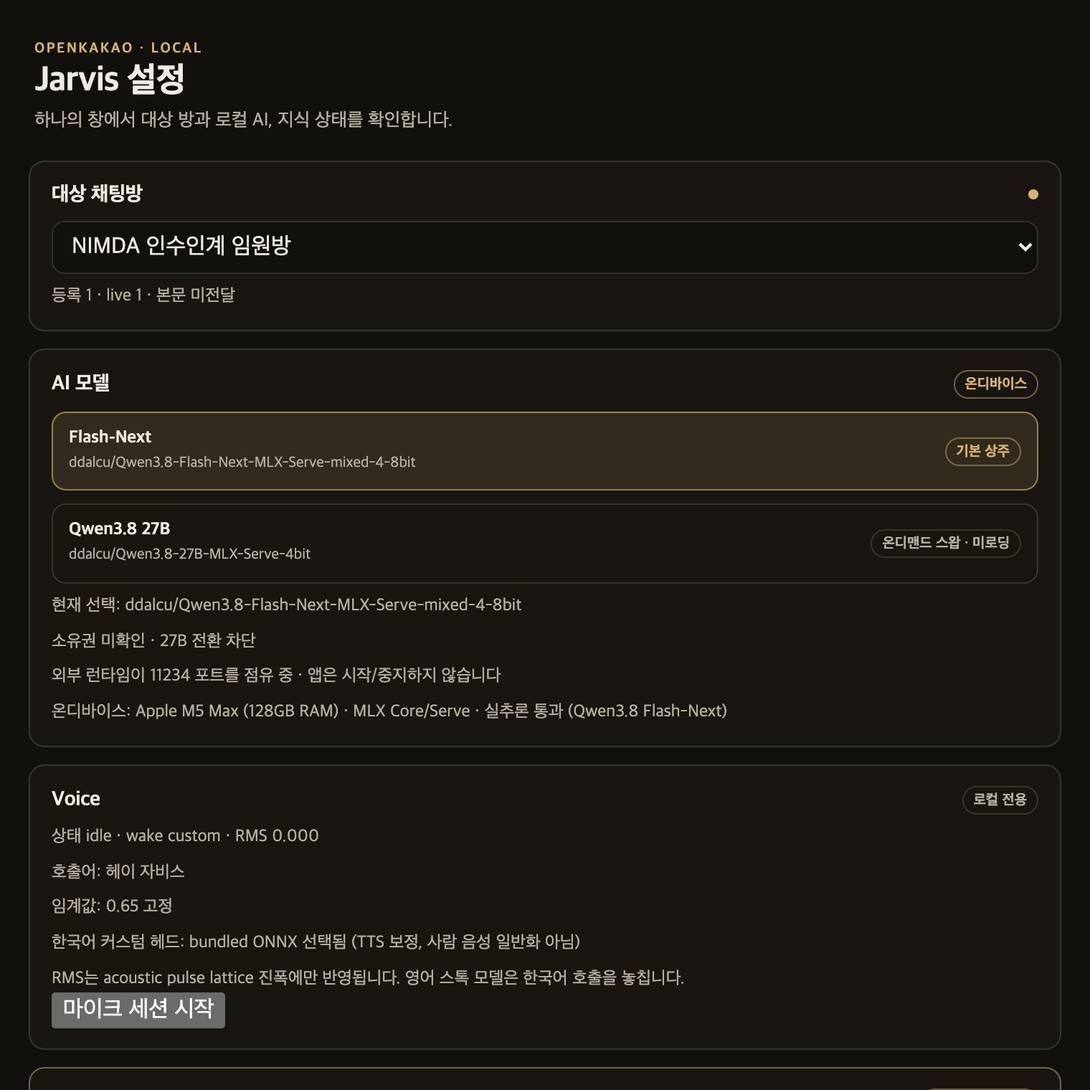
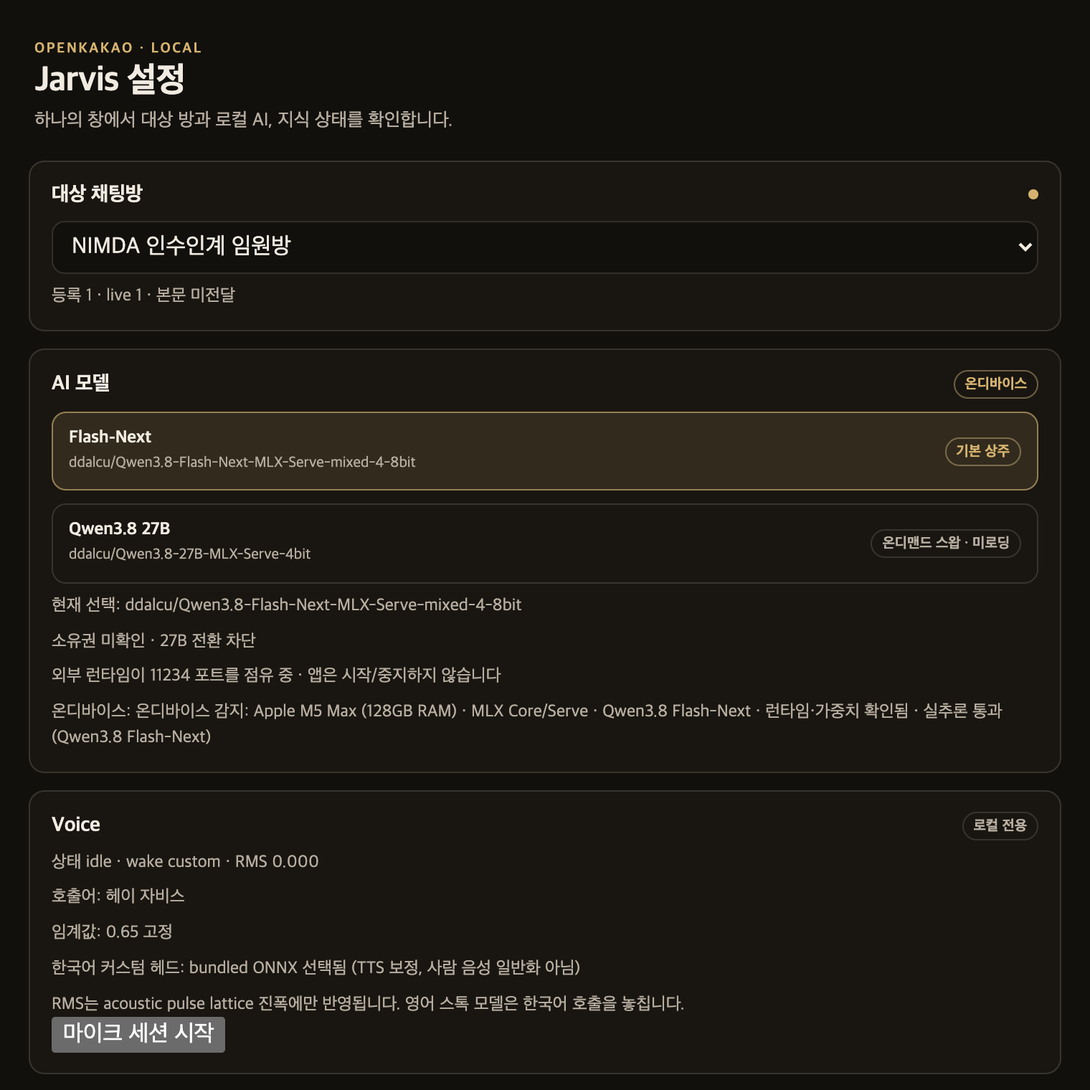
fix(jarvis): keep the rendered settings window free of banned UI tokens
The markup contract and the browser render check both pin what the bundle
draws, but the on-device line in the settings window is not markup: the Tauri
bridge injects it as status_label, and neither check ever read that value from
the product.

Binding the installed app with Computer Use exposed the gap. Opening the
menubar panel with a synthesized click and then clicking the gear showed the
AI model card rendering:

  온디바이스: 온디바이스 감지: Apple M5 Max (128GB RAM) · MLX Core/Serve ·
  Qwen3.8 Flash-Next · 설정 검증 통과 · 실추론 통과 (Qwen3.8 Flash-Next)

검증 is a token the desktop contract bans from the UI. It came from
scripts/auto_reply_ondevice.py and reached the window through status_label, so
it slipped past the markup scan and past a render stub whose status_label had
been written by hand.

Split the status/detail text into the pure ondevice_status_strings(...) and
relabel 설정 검증 통과 / 설정 미확인 as 런타임·가중치 확인됨 / 런타임 미확인.
The exception diagnostic 온디바이스 검증 실패 became 온디바이스 구성 확인 실패.
The function does no filesystem, network, or clock work, so the rendered
strings can be checked directly.

Add TestOnDeviceRenderedTextGuard (5 tests) to tests/test_auto_reply_ondevice.py.
It reads the banned tokens from desktop/src/__tests__/ui-removal-contract.test.ts
rather than copying them, proves the detector is not vacuous first
("일괄 검증 · 권한" -> ["검증", "권한", "일괄"]), covers verified/unverified times
probe present/absent, and checks ondevice_summary_dict actually uses the pure
function.
[…]

Changed region(s): [[0.0309, 0.6493, 0.9586, 1.0], [0.2164, 0.7421, 0.2783, 0.8039]]

diff --git a/tests/test_auto_reply_ondevice.py b/tests/test_auto_reply_ondevice.py
@@ -3,6 +3,7 @@
 from __future__ import annotations
 
 import json
+import re
 import subprocess
 import sys
 import threading
@@ -36,6 +37,8 @@ from scripts.auto_reply_ondevice import (  # noqa: E402
     detect_mlx_gateway_models,
     download_command,
     generate_command,
+    ONDEVICE_RUNTIME_VERIFIED_LABEL,
+    ondevice_status_strings,
     ondevice_summary_dict,
     probe_ondevice_generation,
     read_last_probe,
@@ -1142,3 +1145,103 @@ class TestProbe(unittest.TestCase):
 
 if __name__ == "__main__":
     unittest.main()
+
+UI_CONTRACT_PATH = ROOT / "desktop" / "src" / "__tests__" / "ui-removal-contract.test.ts"
+
+
+def _removed_ui_tokens() -> list[str]:
+    """The banned-token list the desktop markup contract enforces."""
+    source = UI_CONTRACT_PATH.read_text(encoding="utf-8")
+    match = re.search(r"const REMOVED_TOKENS = \[(.*?)\];", source, re.S)
+    if match is None:
+        raise AssertionError("ui-removal-contract.test.ts no longer exposes REMOVED_TOKENS")
+    return re.findall(r'"([^"]+)"', match.group(1))
+
+
+class TestOnDeviceRenderedTextGuard(unittest.TestCase):
+    """The settings window renders this text, so it must respect the UI contract.
+
+    desktop/src/ui.ts is token-clean, but the on-device status line is built
+    here and injected through the Tauri bridge's status_label, which the markup
+    contract cannot see. The installed settings window surfaced the leak.
+    """
+
+    PROBE = {
+        "ok": True,
+        "engine": "mlx-serve-gateway",
+        "model": FLASH_NEXT_MODEL_ID,
+        "latency_ms": 15617,
+        "preview": "OK",
+    }
+
+    def _offending(self, text: str) -> list[str]:
+        folded = text.lower()
+        return [token for token in _removed_ui_tokens() if token.lower() in folded]
+
+    def _bits(self, verified: bool, last_probe: dict | None):
+        return ondevice_status_strings(
+            chip="Apple M5 Max",
+            memory_gb=128.0,
+            reason="MLX Serve/gateway 확인",
+            recommended_model=FLASH_NEXT_MODEL_ID,
+            verified=verified,
+            last_probe=last_probe,
+        )
+
+    def test_offender_detector_is_not_vacuous(self):
+        self.assertEqual(self._offending("일괄 검증 · 권한"), ["검증", "권한", "일괄"])
+        self.assertEqual(self._offending("런타임·가중치 확인됨"), [])
+
+    def test_contract_lists_the_tokens_this_module_must_avoid(self):
+        tokens = _removed_ui_tokens()
+        self.assertIn("검증", tokens)
+        self.assertIn("점검", tokens)
+        self.assertGreaterEqual(len(tokens), 8)
+
+    def test_status_strings_carry_no_banned_ui_token(self):
+        cases = [
+            ("verified with probe", True, self.PROBE),
+            ("verified without probe", True, None),
+            ("unverified without probe", False, None),
+            ("unverified with failed probe", False, dict(self.PROBE, ok=False, model="")),
+        ]
+        for name, verified, last_probe in cases:
+            with self.subTest(case=name):
+                status_bits, detail_bits = self._bits(verified, last_probe)
+                self.assertTrue(status_bits)
+                self.assertTrue(detail_bits)
+                self.assertEqual(self._offending(" · ".join(detail_bits + status_bits)), [])
+
+    def test_status_shape_matches_what_the_card_renders(self):
+        status_bits, _ = self._bits(True, self.PROBE)
+        self.assertEqual(status_bits[0], "온디바이스 감지: Apple M5 Max (128GB RAM)")
+        self.assertEqual(status_bits[1], "MLX Core/Serve")
+        self.assertEqual(status_bits[2], "Qwen3.8 Flash-Next")
+        self.assertEqual(status_bits[3], ONDEVICE_RUNTIME_VERIFIED_LABEL)
+        self.assertEqual(status_bits[4], "실추론 통과 (Qwen3.8 Flash-Next)")
+
+        without_probe, _ = self._bits(False, None)
+        self.assertEqual(without_probe[-1], "런타임 미확인")
+        self.assertEqual(len(without_probe), 4)
+
+    def test_summary_dict_uses_the_pure_formatter(self):
+        rec = _gateway_rec()
+        with TemporaryDirectory() as temp_dir:
+            with patch("scripts.auto_reply_ondevice.detect_hardware", return_value=_hw("Apple M5 Max", 128.0)), patch(
+                "scripts.auto_reply_ondevice.recommend_ondevice_setup", return_value=rec
+            ), patch(
+                "scripts.auto_reply_ondevice.verify_ondevice_setup",
+                return_value={"ok": True, "engine": "mlx-serve", "model": rec.recommended_model, "checks": [], "errors": []},
+            ):
+                summary = ondevice_summary_dict(Path(temp_dir))
+        status_bits, detail_bits = ondevice_status_strings(
+            chip="Apple M5 Max",
+            memory_gb=128.0,
+            reason=rec.reason,
+            recommended_model=rec.recommended_model,
+            verified=True,
+            last_probe=None,
+        )
+        self.assertEqual(summary["status_label"], " · ".join(status_bits))
+        self.assertEqual(summary["status_detail"], " · ".join(bit for bit in detail_bits if bit))
+        self.assertEqual(self._offending(summary["status_label"] + summary["status_detail"]), [])

diff --git a/scripts/auto_reply_ondevice.py b/scripts/auto_reply_ondevice.py
@@ -1269,7 +1269,7 @@ def verify_ondevice_setup(rec: EngineRecommendation | None = None) -> dict[str, 
         else:
             record("mlx_runtime", False, "Apple Silicon MLX Core/Serve 구성이 아닙니다")
     except Exception as exc:
-        errors.append(f"온디바이스 검증 실패: {type(exc).__name__}")
+        errors.append(f"온디바이스 구성 확인 실패: {type(exc).__name__}")
 
     return {
         "ok": bool(checks) and all(check["ok"] for check in checks) and not errors,
@@ -1554,26 +1554,60 @@ def _display_model(model: str) -> str:
     return Path(model).name if model else "모델 미확인"
 
 
+ONDEVICE_RUNTIME_VERIFIED_LABEL = "런타임·가중치 확인됨"
+ONDEVICE_RUNTIME_UNVERIFIED_LABEL = "런타임 미확인"
+ONDEVICE_PROBE_OK_LABEL = "실추론 통과"
+ONDEVICE_PROBE_FAIL_LABEL = "실추론 실패"
+
+
+def ondevice_status_strings(
+    *,
+    chip: str,
+    memory_gb: float,
+    reason: str,
+    recommended_model: str,
+    verified: bool,
+    last_probe: dict[str, Any] | None,
+) -> tuple[list[str], list[str]]:
+    """Build the settings window's on-device status and detail text.
+
+    Pure: no filesystem, network, or clock access, so the rendered-UI token
+    guard in tests can exercise the exact strings the product ships. The
+    labels deliberately avoid the tokens the desktop UI contract bans.
+    """
+    verify_label = (
+        ONDEVICE_RUNTIME_VERIFIED_LABEL if verified else ONDEVICE_RUNTIME_UNVERIFIED_LABEL
+    )
+    status_bits = [
+        f"온디바이스 감지: {chip} ({int(memory_gb)}GB RAM)",
+        "MLX Core/Serve",
+        _display_model(recommended_model),
+        verify_label,
+    ]
+    detail_bits = [reason, recommended_model]
+    if last_probe:
+        probe_label = ONDEVICE_PROBE_OK_LABEL if last_probe.get("ok") else ONDEVICE_PROBE_FAIL_LABEL
+        status_bits.append(f"{probe_label} ({_display_model(str(last_probe.get('model') or ''))})")
+        detail_bits.append(
+            f"최근 실추론: {last_probe.get('engine') or '-'} · {last_probe.get('model') or '-'} · "
+            f"{last_probe.get('latency_ms') or 0}ms · {probe_label}"
+        )
+    return status_bits, detail_bits
+
+
 def ondevice_summary_dict(state_root: Path | None = None) -> dict[str, Any]:
     hw = detect_hardware()
     rec = recommend_ondevice_setup(hw)
     verification = verify_ondevice_setup(rec)
     last_probe = read_last_probe(state_root)
-    verify_status = "설정 검증 통과" if verification.get("ok") else "설정 미확인"
-    status_bits = [
-        f"온디바이스 감지: {hw.chip} ({int(hw.memory_gb)}GB RAM)",
-        "MLX Core/Serve",
-        _display_model(rec.recommended_model),
-        verify_status,
-    ]
-    detail_bits = [rec.reason, rec.recommended_model]
-    if last_probe:
-        probe_status = "실추론 통과" if last_probe.get("ok") else "실추론 실패"
-        status_bits.append(f"{probe_status} ({_display_model(str(last_probe.get('model') or ''))})")
-        detail_bits.append(
-            f"최근 실추론: {last_probe.get('engine') or '-'} · {last_probe.get('model') or '-'} · "
-            f"{last_probe.get('latency_ms') or 0}ms · {probe_status}"
-        )
+    status_bits, detail_bits = ondevice_status_strings(
+        chip=hw.chip,
+        memory_gb=hw.memory_gb,
+        reason=rec.reason,
+        recommended_model=rec.recommended_model,
+        verified=bool(verification.get("ok")),
+        last_probe=last_probe,
+    )
     return {
         "hardware": asdict(hw),
         "recommendation": asdict(rec),

diff --git a/scripts/jarvis_desktop_render_check.py b/scripts/jarvis_desktop_render_check.py
@@ -45,6 +45,32 @@ DEFAULT_CONTRACT = ROOT / "desktop" / "src" / "__tests__" / "ui-removal-contract
 DEFAULT_OUT = ROOT / "docs" / "architecture"
 DEFAULT_PORT = 8712
 
+# The on-device status line is produced by the product, not written here. The
+# TypeScript contract cannot see text the Tauri bridge injects as status_label,
+# and the installed settings window once rendered a banned token exactly that
+# way, so the stub feeds the real formatter and the scan below sees its output.
+sys.path.insert(0, str(ROOT / "scripts"))
+from auto_reply_ondevice import ondevice_status_strings  # noqa: E402
+
+STUB_ONDEVICE_MODEL = "mlx/ddalcu/Qwen3.8-Flash-Next-MLX-Serve-mixed-4-8bit"
+STUB_ONDEVICE_PROBE = {
+    "ok": True,
+    "engine": "mlx-serve-gateway",
+    "model": STUB_ONDEVICE_MODEL,
+    "latency_ms": 15617,
+    "preview": "OK",
+}
+STUB_ONDEVICE_STATUS_BITS, STUB_ONDEVICE_DETAIL_BITS = ondevice_status_strings(
+    chip="Apple M5 Max",
+    memory_gb=128.0,
+    reason="Apple Silicon MLX Core/Serve 경로를 사용합니다",
+    recommended_model=STUB_ONDEVICE_MODEL,
+    verified=True,
+    last_probe=STUB_ONDEVICE_PROBE,
+)
+STUB_ONDEVICE_STATUS_LABEL = " · ".join(STUB_ONDEVICE_STATUS_BITS)
+STUB_ONDEVICE_STATUS_DETAIL = " · ".join(bit for bit in STUB_ONDEVICE_DETAIL_BITS if bit)
+
 PANEL_SIZE = (276, 260)
 SETTINGS_SIZE = (760, 760)
 PANEL_LABEL = "\uc124\uc815 \uc5f4\uae30"
@@ -137,7 +163,8 @@ IDLE_SNAPSHOT: dict[str, Any] = {
         "hardware": {"chip": "Apple M5 Max", "cores": 18, "memory_gb": 128.0, "is_apple_silicon": True},
         "recommendation": {"primary_engine": "MLX Core/Serve", "recommended_model": "Qwen3.8 Flash-Next", "recommended_quant": "4-8bit"},
         "verification": {"ok": True},
-        "status_label": "Apple M5 Max (128GB RAM) \u00b7 MLX Core/Serve \u00b7 \uc2e4\ucd94\ub860 \ud1b5\uacfc (Qwen3.8 Flash-Next)",
+        "status_label": STUB_ONDEVICE_STATUS_LABEL,
+        "status_detail": STUB_ONDEVICE_STATUS_DETAIL,
     },
     "pipeline": {"active": False, "stage": "none", "stageIndex": 0, "stageTotal": 8, "outcome": "none"},
     "terminal_counts": {"sent": 12, "skipped": 1, "delivery_unknown": 0, "burst_superseded": 1},
@@ -512,6 +539,11 @@ def assertions(receipt: dict[str, Any], contract: dict[str, Any]) -> list[dict[s
     checks.append(check("settings.no_iframe", settings["iframes"] == 0, settings["iframes"]))
     checks.append(check("settings.knowledge_canvas_present", any(item["id"] == "knowledge-graph-canvas" for item in settings["canvases"]), settings["canvases"]))
     checks.append(check("settings.no_removed_control_tokens", scan_banned_tokens([settings["text"], settings["html"]], contract["banned_tokens"]) == [], scan_banned_tokens([settings["text"], settings["html"]], contract["banned_tokens"])))
+    checks.append(check(
+        "settings.ondevice_status_is_product_formatted",
+        STUB_ONDEVICE_STATUS_LABEL in settings["text"],
+        {"product_label": STUB_ONDEVICE_STATUS_LABEL[:160]},
+    ))
 
     checks.append(check("knowledge.hologram_renders_frames", (knowledge.get("render_count_after_focus") or 0) > 0, knowledge.get("render_count_after_focus")))
     checks.append(check("knowledge.drilldown_focuses_a_node", bool(knowledge.get("focused")), {"probes": knowledge.get("probes"), "title": knowledge.get("focus_title")}))

diff --git a/tests/test_jarvis_desktop_render_check.py b/tests/test_jarvis_desktop_render_check.py
@@ -190,3 +190,47 @@ class BridgeStub(unittest.TestCase):
 if __name__ == "__main__":
     unittest.main()
 
+class ProductSuppliedStatusText(unittest.TestCase):
+    """The stub must render the product's own on-device status text.
+
+    The markup contract cannot see text the Tauri bridge injects as
+    status_label, so the browser scan only has teeth if the stub carries what
+    the product actually builds.
+    """
+
+    REASON = "Apple Silicon MLX Core/Serve 경로를 사용합니다"
+
+    def bits(self):
+        return check.ondevice_status_strings(
+            chip="Apple M5 Max",
+            memory_gb=128.0,
+            reason=self.REASON,
+            recommended_model=check.STUB_ONDEVICE_MODEL,
+            verified=True,
+            last_probe=check.STUB_ONDEVICE_PROBE,
+        )
+
+    def test_stub_label_is_the_factory_output(self) -> None:
+        status_bits, detail_bits = self.bits()
+        self.assertEqual(check.STUB_ONDEVICE_STATUS_LABEL, " · ".join(status_bits))
+        self.assertEqual(
+            check.STUB_ONDEVICE_STATUS_DETAIL,
+            " · ".join(bit for bit in detail_bits if bit),
+        )
+
+    def test_stub_status_text_avoids_the_banned_tokens(self) -> None:
+        contract = check.parse_contract(CONTRACT_SOURCE)
+        haystacks = [check.STUB_ONDEVICE_STATUS_LABEL, check.STUB_ONDEVICE_STATUS_DETAIL]
+        self.assertEqual(check.scan_banned_tokens(haystacks, contract["banned_tokens"]), [])
+
+    def test_stub_snapshot_uses_the_factory_output(self) -> None:
+        ondevice = check.IDLE_SNAPSHOT["onDevice"]
+        self.assertEqual(ondevice["status_label"], check.STUB_ONDEVICE_STATUS_LABEL)
+        self.assertEqual(ondevice["status_detail"], check.STUB_ONDEVICE_STATUS_DETAIL)
+        self.assertEqual(ondevice["verification"], {"ok": True})
+
+    def test_busy_snapshot_carries_the_same_status_text(self) -> None:
+        self.assertEqual(
+            check.BUSY_SNAPSHOT["onDevice"]["status_label"],
+            check.STUB_ONDEVICE_STATUS_LABEL,
+        )

diff --git a/README.md b/README.md
@@ -134,6 +134,7 @@ The diagrams are architectural references, not a live generation trace. On-devic
 - 설치된 Tauri 빌드의 live UI를 직접 확인했다. 2026-09-21 KST에 설치본 `/Applications/OpenKakao Jarvis.app`(패널 276x260)의 메뉴바 패널과 설정 창(760x760)에서 Computer Use 스크린샷과 AX 트리를 받아 [jarvis-live-panel.png](docs/architecture/jarvis-live-panel.png)와 [jarvis-live-settings.png](docs/architecture/jarvis-live-settings.png)로 남겼다. 패널 창의 조작 요소는 톱니바퀴 버튼 1개뿐이고, 설정 창은 대상 채팅방·AI 모델·Voice·카카오 DB 동기화·색인·DREAM-RSI·Knowledge·GeekNews 슬롯·History만 담으며 대량 검증·기능 점검·권한 관리 화면은 없다. 같은 측정에서 종전 `-10005 timeoutReached` 원인도 격리했다: 패널은 `label() == "jarvis"`가 포커스를 잃으면 hide되므로(`desktop/src-tauri/src/main.rs`) 평소 창이 0개이고, `cua.getApp`은 창이 있으면 69 ms(경로)·43 ms(표시 이름)에 붙지만 창이 0개면 5.05초 뒤 실패한다. `LSUIElement`를 원인으로 적은 종전 설명은 이 실측으로 대체한다. 이 증거는 UI 렌더와 창 생명주기에 대한 것이며 live model generation이나 live KakaoTalk 전송을 입증하지 않는다. 프로브 명령과 AX 트리 전문은 `docs/architecture/unit5-live-proofs.md`의 같은 날짜 절에 있다.
 - 실제 loopback 임베딩 endpoint로 dense ANN 색인과 RRF 하이브리드 검색을 처음 재현했다. 외부 소유 `mlx-serve`가 `127.0.0.1:11234/v1/embeddings`에서 2560차원 벡터를 반환했고, 앱 자체 그래프(50 entities·341 relations)의 read-only 복제본에서 `dense_vectors` 50행·`ann_buckets` 400행이 생성됐으며 네 개 질의가 모두 `search_mode = "rrf"`였다(`candidate_count` 23–40, `entities_count` 12–13). 같은 측정에서 기본 `batch_size=32`가 요청당 4.864초로 `DENSE_EMBEDDING_TIMEOUT_SECONDS=4.0`을 넘겨 기본값 그대로는 dense 색인이 fail-closed로 끝나는 것을 실측했고, 그 불일치는 이후 수정했다(아래 bullet). 명령과 수치는 `docs/architecture/unit5-live-proofs.md`의 같은 날짜 절에 있다.
[1 lines of base64/hex data omitted]
+- 설치본 설정 창에서 마크업 검사가 볼 수 없는 백엔드 문자열 누출을 찾아 고쳤다(2026-09-22 KST). Computer Use로 설치본 pid 84125의 메뉴바 패널을 합성 클릭으로 열고(패널은 한가할 때 약 5–8초 뒤에 뜨고 포커스를 잃으면 다시 숨는다) gear(요소 5)를 실제로 클릭해 설정 창(760x760)을 띄운 뒤 AX 트리를 읽었다. 패널 조작 요소는 종전대로 톱니바퀴 1개(`button 설정 열기`)였고 설정 창은 7개 `h2` 와 `GeekNews 슬롯` 컨테이너만 담았지만, AI 모델 카드가 `온디바이스: … · 설정 검증 통과 · 실추론 통과 (Qwen3.8 Flash-Next)` 를 렌더했다. `검증` 은 데스크톱 계약이 UI에서 금지한 토큰인데 그 문자열은 `scripts/auto_reply_ondevice.py` 가 만들어 브리지의 `status_label` 로 들어오므로 마크업 스캔과 손으로 적어 둔 render stub 을 모두 통과했다. 상태 문자열을 순수 함수 `ondevice_status_strings(...)` 로 분리해 라벨을 `런타임·가중치 확인됨` / `런타임 미확인` 으로 바꾸고, `tests/test_auto_reply_ondevice.py` 에 금지 토큰 목록을 `ui-removal-contract.test.ts` 에서 읽는 `TestOnDeviceRenderedTextGuard` 5개를 추가했으며, render stub 이 그 함수로 `status_label` 을 만들고 설정 창이 제품 문자열을 실제로 렌더하는지 보는 check 를 넣었다. 종전 라벨을 주입한 실행은 `status fail` 와 `['검증']` 로 떨어졌고 수정 상태는 24/24 pass 다. 설치 번들은 수정 전 그대로여서 이 변경은 다음 재빌드·재설치 때 화면에 반영된다.
 - 로컬 모델 생성 경로를 다시 실측했다. 2026-09-21 KST에 `scripts/verify_local_models.py --timeout 60 --owner --json`로 Flash-Next는 `readiness true · generation true · reason ok`(15,842 ms), 27B는 `model_not_ready`(2 ms)였고 `owner = model_owner_unmanaged`였다. 설정 카드의 `실추론 통과` 문구는 `~/Library/Application Support/openkakao/bujamentor/ondevice-last-probe.json`(2026-09-19T18:47:40+00:00, engine `mlx-serve-gateway`, latency 15,617 ms, preview `OK`)에 영속된 기록을 읽은 것이다. 이 실측은 Flash-Next 텍스트 생성만 확인하며 27B 생성·비전과 실제 카카오톡 전송을 입증하지 않는다.
 - 숨김 상태 렌더 정지를 설치본에서 다시 확인했다. 2026-09-21 KST에 설치본 pid 50870의 메뉴바 패널을 실제 클릭으로 열고 닫으면서 2초 간격 6회 `ps -p 50870 -o %cpu=`를 샘플링했다: 패널 열림(유휴, `count of windows` 1)에서 2.9–3.1, 패널 닫힘(`count of windows` 0)에서 6회 모두 0.0이었다. `ps`의 %cpu는 감쇠 평균이고 프로세스 전체 값이므로 RAF 호출 수 자체를 세는 증거는 아니며, 창 숨김 시 미해결 RAF 취소와 render-count delta 0을 직접 측정한 기존 기록을 대체하지 않는다.
 

diff --git a/docs/architecture/unit5-live-proofs.md b/docs/architecture/unit5-live-proofs.md
@@ -1539,3 +1539,29 @@ receipt:
 - Tauri 브리지는 stub이다. 실제 Rust 브리지가 돌려주는 스냅샷 형식(6키 작업 이벤트 등)은 기존 Rust 테스트가 담당한다.
 - DREAM-RSI·색인·모델 소유권 값은 stub payload이므로 실측이 아니다. `model-swap` 은 이 호스트의 실제 상태(외부 `mlx-serve` 가 11234 점유 → 27B 전환 차단)를 그대로 stub에 옮긴 것이고, 앱이 실제로 전환을 거부하는지는 이 절이 입증하지 않는다.
 - fps는 headless Chromium의 RAF 환경에서 측정한 값이다. 실제 webview의 합성 주기와 같다고 주장하지 않는다.
+
+### 설치본 설정 창이 드러낸 백엔드 문자열 누출 — 2026-09-22 KST (세션 01a0b7f6 계속)
+
+`ui-removal-contract.test.ts` 와 `scripts/jarvis_desktop_render_check.py` 는 마크업과 번들이 그리는 화면을 고정한다. 그런데 설정 창 AI 모델 카드의 온디바이스 한 줄은 마크업이 아니라 **Tauri 브리지가 `status_label` 로 주입하는 문자열** 이고, 두 검사 모두 그 값을 실제 제품에서 읽지 않았다. 이번 턴에 Computer Use로 설치본을 직접 열어 읽으면서 그 구멍이 뚫려 있는 것을 확인했다.
+
+재현과 관측:
+
+- 설치본 pid 84125는 평소 창이 0개다(패널은 `label() == "jarvis"` 가 포커스를 잃으면 hide된다). 트레이 아이템은 AX로 `2917, 3, 36, 24` 였고 `/tmp/jarvis_click 2935 15` 로 합성 HID 클릭을 보냈다. 앱이 한가할 때 패널은 즉시 뜨지 않고 **약 5–8초 뒤**에 뜨며(창 수를 0.25초 간격으로 40회 샘플링해 마지막 샘플에서 1이 됐다), 뜬 뒤에도 포커스를 잃으면 다시 hide된다. 종전 기록의 "클릭 0.1초 뒤 바인딩"은 창이 이미 떠 있던 조건의 값이다.
+- 그 창이 떠 있는 동안 `cua.getApp("/Applications/OpenKakao Jarvis.app")` 는 즉시 붙었다. 패널 AX 트리는 종전과 같다: `0 standard window` → `1 scroll area` → `2 HTML content (tauri://localhost)` → `3 container Jarvis` → `4 image Jarvis core` + `5 button 설정 열기`, 즉 조작 요소는 톱니바퀴 1개다. 스크린샷도 같은 톤이었다: 아이보리 배경, 샴페인 골드 다중 짐벌 링 + 구형 코어, 얇은 시냅스 선과 작은 입자. bloom 후처리·네온·발광 텍스트는 없었다.
+- 같은 세션에서 gear(요소 5)를 실제로 클릭해 설정 창(760x760)을 열었다. AX 트리는 `대상 채팅방 · AI 모델 · Voice · 카카오 DB 동기화 · 색인 · DREAM-RSI · Knowledge · History` 7개 `h2` 와 heading 없는 `GeekNews 슬롯` 컨테이너만 담았고 대량 검증·기능 점검·권한 관리 화면은 없었다.
+- 그런데 AI 모델 카드의 온디바이스 줄은 `온디바이스: 온디바이스 감지: Apple M5 Max (128GB RAM) · MLX Core/Serve · Qwen3.8 Flash-Next · 설정 검증 통과 · 실추론 통과 (Qwen3.8 Flash-Next)` 였다. `검증` 은 데스크톱 계약이 UI에서 금지한 토큰인데, 이 문자열은 `scripts/auto_reply_ondevice.py` 가 만들고 브리지의 `status_label` 로 들어오므로 마크업 스캔에 걸리지 않는다. 렌더 검사의 stub 도 `status_label` 을 손으로 적어 두어(`실추론 통과` 만 포함) 같은 이유로 통과했다.
+- 설정 창은 CUA의 close button(요소 92) 클릭으로 닫았다. 클릭 뒤 관측 호출이 `-10005 timeoutReached` 로 끝난 것은 창이 사라져서이고, 곧이어 AX 창 수 0 · pid 84125 생존을 확인해 이 턴이 찾은 상태로 되돌렸다.
+
+수정은 세 갈래다.
+
+- `scripts/auto_reply_ondevice.py` 의 상태 문자열을 순수 함수 `ondevice_status_strings(...)` 로 분리하고 라벨을 `런타임·가중치 확인됨` / `런타임 미확인` 으로 바꿨다(종전 `설정 검증 통과` / `설정 미확인`). 예외 진단 문구 `온디바이스 검증 실패` 도 `온디바이스 구성 확인 실패` 로 맞췄다. 이 함수는 파일·네트워크·시계에 접근하지 않으므로 렌더되는 문자열을 그대로 검사할 수 있다.
+- `tests/test_auto_reply_ondevice.py` 에 `TestOnDeviceRenderedTextGuard` 5개를 추가했다. 금지 토큰은 `desktop/src/__tests__/ui-removal-contract.test.ts` 의 `REMOVED_TOKENS` 에서 직접 읽고, 검출기가 비지 않음도 먼저 확인한다(`일괄 검증 · 권한` → `["검증","권한","일괄"]`). verified/미확인 × probe 있음/없음 4조합 모두에서 상태·상세 문자열에 금지 토큰이 없고, `ondevice_summary_dict` 가 그 순수 함수를 실제로 쓰는지도 확인한다.
+- `scripts/jarvis_desktop_render_check.py` 의 Tauri stub 은 이제 같은 함수를 호출해 `status_label` / `status_detail` 을 만든다. 새 check `settings.ondevice_status_is_product_formatted` 는 설정 창이 그 제품 문자열을 정말 렌더하는지 보므로, 토큰 스캔이 렌더되지 않은 문자열에 대해 공허하게 통과할 수 없다. `tests/test_jarvis_desktop_render_check.py` 에는 stub 라벨이 그 함수의 출력과 같은지, 금지 토큰이 없는지, busy 스냅샷도 같은 문자열을 쓰는지 확인하는 4개를 추가했다.
+
+검사에 이빨이 있는지는 주입으로 확인했다. stub 라벨을 종전 문자열(`설정 검증 통과` 포함)로 바꾼 별도 실행에서 렌더 검사는 `status fail` 이고 `settings.no_removed_control_tokens` 가 `['검증']` 로 떨어졌다. 같은 리비전의 수정 상태에서는 **24/24 checks pass** 이다. 영수증 [jarvis-desktop-render-check.json](jarvis-desktop-render-check.json) 과 캡처 7장을 이 실행으로 갱신했다.
+
+이 절이 닫지 않는 것:
+
+- 설치는 수정 전 번들 그대로다. pid 84125는 여전히 `설정 검증 통과` 를 렌더하므로, 이 수정은 다음 재빌드·재설치(전환) 때 화면에 반영된다. `docs/architecture/jarvis-live-settings.png` 는 수정 전 설치본을 담은 그대로 둔다.
+- 이 셸에서 `screencapture` 는 신뢰할 수 없다: `-R` 은 15–20초 뒤에야 파일을 쓰고 그동안 화면이 바뀌면 다른 창을 담았으며(실제로 Spark 창을 담아 되돌렸다), `-l <windowID>` 는 25초를 넘겨도 끝나지 않아 스스로 종료해야 했다. 창 ID 조회는 `CGWindowListCopyWindowInfo` 를 쓰는 `/tmp/jarvis_win <pid> [title]` 로 됐다. CUA 스크린샷은 대화에만 남고 파일로 저장할 수 없다(`nodeRepl` 에 파일 API가 없고 `nodeRepl.rpc` 는 service 식별자를 요구한다).
+- `macos/AutoReplyMenu/main.swift` 에는 같은 부류의 문자열이 아직 7개 있다(`점검 중` 5개, `검증 통과` 계열 2개). 그 앱은 아직 CI에서 빌드되지만 제품 런타임은 Tauri이고, 전환 시 함께 사라질 대상이라 이번 패스에서는 건드리지 않았다.
